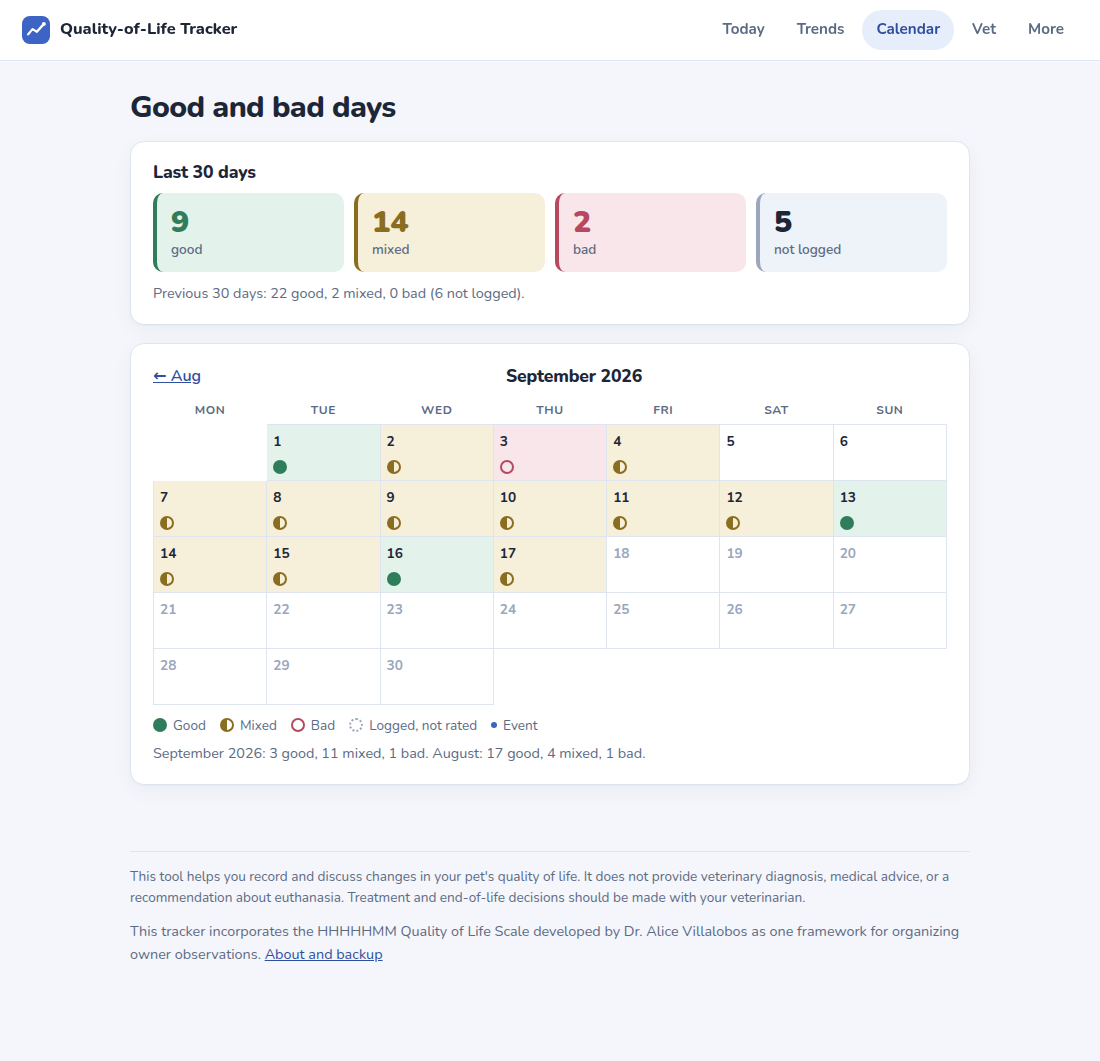
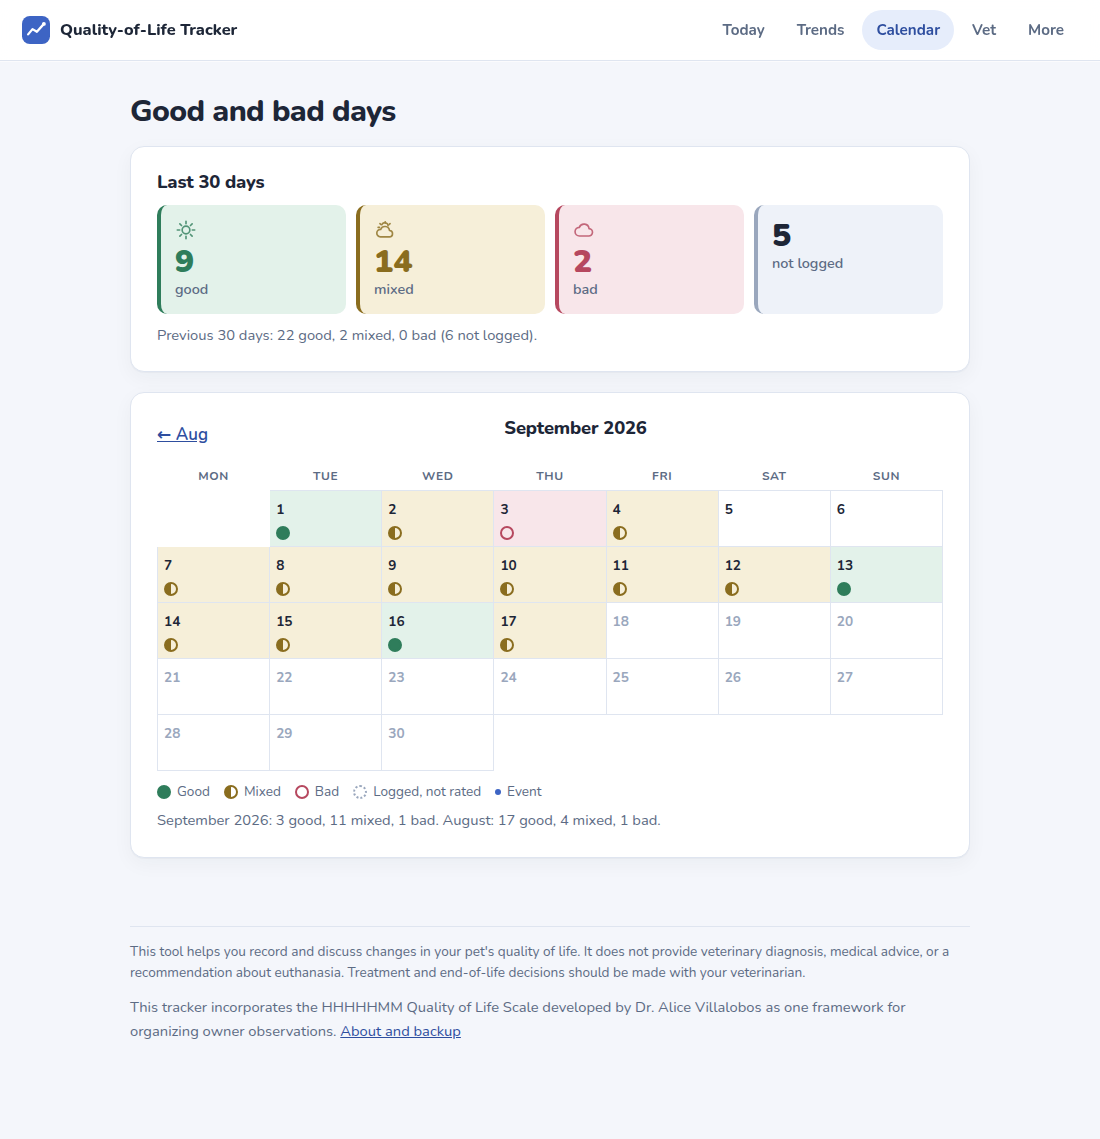
Readability pass and restrained graphics
- Inline SVG icon set (_icons.html): sun, cloud-and-sun, cloud for day
  types; dog and cat portraits for pets without a photo; step, menu,
  and completion marks; a soft chart illustration on the landing page
- Larger base type, more spacing inside cards, bigger day buttons
- Pet pages set the current pet from the URL so navigation always
  matches the page, even from a direct link

Claude-Session: https://claude.ai/code/session_01WD81nzJdcR2tiUwVwuFBaZ

diff --git a/app/templates/_icons.html b/app/templates/_icons.html
@@ -1,0 +1,38 @@
+{# Inline SVG icons: simple line drawings, 24x24, stroke-based so they take the text color. #}
+{% macro icon(name, cls='icon') -%}
+{%- if name == 'sun' -%}
+<svg class="{{ cls }}" viewBox="0 0 24 24" aria-hidden="true"><circle cx="12" cy="12" r="4.2"/><path d="M12 2.5v2.6M12 18.9v2.6M2.5 12h2.6M18.9 12h2.6M5.3 5.3l1.8 1.8M16.9 16.9l1.8 1.8M5.3 18.7l1.8-1.8M16.9 7.1l1.8-1.8"/></svg>
+{%- elif name == 'cloud-sun' -%}
+<svg class="{{ cls }}" viewBox="0 0 24 24" aria-hidden="true"><path d="M8.5 6.2a3.6 3.6 0 0 1 6.9 1.2"/><path d="M12.3 3v1.5M17.5 5l-1 1M6.5 5l1 1M4.5 9.2h1.5"/><path d="M7 19.5h9.5a3.5 3.5 0 0 0 .4-7 5 5 0 0 0-9.6-1.2A4.1 4.1 0 0 0 7 19.5z"/></svg>
+{%- elif name == 'cloud' -%}
+<svg class="{{ cls }}" viewBox="0 0 24 24" aria-hidden="true"><path d="M7 18.5h10a4 4 0 0 0 .5-8 5.5 5.5 0 0 0-10.6-1.4A4.7 4.7 0 0 0 7 18.5z"/></svg>
+{%- elif name == 'dog' -%}
+<svg class="{{ cls }}" viewBox="0 0 24 24" aria-hidden="true"><path d="M6.5 8.5 4 5.5c-.8-1 .1-2.3 1.3-2l3.4.9"/><path d="M17.5 8.5 20 5.5c.8-1-.1-2.3-1.3-2l-3.4.9"/><path d="M8.7 4.4C10.8 3.4 13.2 3.4 15.3 4.4"/><path d="M6.5 8.5c-1.3 3.2-.6 7.3 1.6 9.6a5.7 5.7 0 0 0 7.8 0c2.2-2.3 2.9-6.4 1.6-9.6"/><path d="M10 11.2h.01M14 11.2h.01"/><path d="M12 13.8c-.9 0-1.5.5-1.5 1 0 .8 1.5 1.7 1.5 1.7s1.5-.9 1.5-1.7c0-.5-.6-1-1.5-1z"/><path d="M12 16.5v2"/></svg>
+{%- elif name == 'cat' -%}
+<svg class="{{ cls }}" viewBox="0 0 24 24" aria-hidden="true"><path d="M5.5 10.5 4.8 4.2c-.1-.9.9-1.4 1.6-.9L10 6"/><path d="M18.5 10.5l.7-6.3c.1-.9-.9-1.4-1.6-.9L14 6"/><path d="M10 6c1.3-.4 2.7-.4 4 0"/><path d="M5.5 10.5c-.9 4.3 1.5 8.3 6.5 8.3s7.4-4 6.5-8.3"/><path d="M9.6 11.6h.01M14.4 11.6h.01"/><path d="M12 13.8l-1 .9 1 .7 1-.7-1-.9z"/><path d="M12 15.4v1.2M7.5 14.6l-3 .6M7.6 16.2l-2.8 1.2M16.5 14.6l3 .6M16.4 16.2l2.8 1.2"/></svg>
+{%- elif name == 'check-circle' -%}
+<svg class="{{ cls }}" viewBox="0 0 24 24" aria-hidden="true"><circle cx="12" cy="12" r="9"/><path d="M8.5 12.3l2.3 2.3 4.7-5"/></svg>
+{%- elif name == 'trend' -%}
+<svg class="{{ cls }}" viewBox="0 0 24 24" aria-hidden="true"><path d="M3.5 17.5l5-6 4 3 7.5-8"/><path d="M15.5 6.5H20v4.5"/></svg>
+{%- elif name == 'stethoscope' -%}
+<svg class="{{ cls }}" viewBox="0 0 24 24" aria-hidden="true"><path d="M6 3.5v6a4.5 4.5 0 0 0 9 0v-6"/><path d="M4.5 3.5H7.5M13.5 3.5h3"/><path d="M10.5 14v1.5a4.5 4.5 0 0 0 9 0V13"/><circle cx="19.5" cy="10.5" r="2.2"/></svg>
+{%- elif name == 'calendar' -%}
+<svg class="{{ cls }}" viewBox="0 0 24 24" aria-hidden="true"><rect x="3.5" y="5" width="17" height="15.5" rx="2.5"/><path d="M3.5 9.5h17M8 3v4M16 3v4"/><path d="M7.5 13h2M11 13h2M14.5 13h2M7.5 16.5h2M11 16.5h2"/></svg>
+{%- elif name == 'heart' -%}
+<svg class="{{ cls }}" viewBox="0 0 24 24" aria-hidden="true"><path d="M12 20s-7.5-4.6-7.5-10A4 4 0 0 1 12 7.6 4 4 0 0 1 19.5 10c0 5.4-7.5 10-7.5 10z"/></svg>
+{%- elif name == 'pill' -%}
+<svg class="{{ cls }}" viewBox="0 0 24 24" aria-hidden="true"><rect x="3" y="8.5" width="18" height="7" rx="3.5" transform="rotate(-35 12 12)"/><path d="M8.7 7.2l6.6 9.6"/></svg>
+{%- elif name == 'flag' -%}
+<svg class="{{ cls }}" viewBox="0 0 24 24" aria-hidden="true"><path d="M5.5 21V4"/><path d="M5.5 4.5c4-2 8 2 12 0v9c-4 2-8-2-12 0"/></svg>
+{%- elif name == 'person' -%}
+<svg class="{{ cls }}" viewBox="0 0 24 24" aria-hidden="true"><circle cx="12" cy="8" r="3.8"/><path d="M4.5 20.5c1-4.2 4-6 7.5-6s6.5 1.8 7.5 6"/></svg>
+{%- elif name == 'settings' -%}
+<svg class="{{ cls }}" viewBox="0 0 24 24" aria-hidden="true"><circle cx="12" cy="12" r="3"/><path d="M12 3.5v2M12 18.5v2M3.5 12h2M18.5 12h2M6 6l1.4 1.4M16.6 16.6 18 18M6 18l1.4-1.4M16.6 7.4 18 6"/></svg>
+{%- elif name == 'archive' -%}
+<svg class="{{ cls }}" viewBox="0 0 24 24" aria-hidden="true"><rect x="3.5" y="4.5" width="17" height="4.5" rx="1.2"/><path d="M5 9v9.5A1.5 1.5 0 0 0 6.5 20h11a1.5 1.5 0 0 0 1.5-1.5V9"/><path d="M10 13h4"/></svg>
+{%- elif name == 'leaf' -%}
+<svg class="{{ cls }}" viewBox="0 0 24 24" aria-hidden="true"><path d="M5 19c0-8 5-13 14-14-1 9-6 14-14 14z"/><path d="M5 19c3-4 6-7 10-10"/></svg>
+{%- elif name == 'baseline' -%}
+<svg class="{{ cls }}" viewBox="0 0 24 24" aria-hidden="true"><path d="M3.5 8.5h17" stroke-dasharray="3 2.5"/><path d="M3.5 17.5l4-3 3.5 2 4-4.5 5.5 3"/></svg>
+{%- endif -%}
+{%- endmacro %}

diff --git a/app/templates/landing.html b/app/templates/landing.html
@@ -1,25 +1,51 @@
 {% extends "base.html" %}
+{% from "_icons.html" import icon %}
 {% block title %}See the pattern, not just the day · Quality-of-Life Tracker{% endblock %}
 {% block content %}
 <section class="hero-landing">
-  <h1>See the pattern, not just the day.</h1>
-  <p class="lede">A gentle quality-of-life tracker for aging and seriously ill pets. Record daily observations in seconds, see changes over time, and bring clearer information to conversations with your veterinarian.</p>
-  <div class="actions">
-    <a class="button large" href="{{ url_for('animals.new_animal', onboarding=1) }}">Start tracking</a>
-    <a class="link" href="#how">See how it works</a>
+  <div class="hero-copy">
+    <h1>See the pattern, not just the day.</h1>
+    <p class="lede">A gentle quality-of-life tracker for aging and seriously ill pets. Record daily observations in seconds, see changes over time, and bring clearer information to conversations with your veterinarian.</p>
+    <div class="actions">
+      <a class="button large" href="{{ url_for('animals.new_animal', onboarding=1) }}">Start tracking</a>
+      <a class="link" href="#how">See how it works</a>
+    </div>
   </div>
+  <figure class="hero-art" aria-hidden="true">
+    <svg viewBox="0 0 320 240">
+      <defs>
+        <linearGradient id="sky" x1="0" y1="0" x2="0" y2="1"><stop offset="0" stop-color="#e6edfb"/><stop offset="1" stop-color="#ffffff"/></linearGradient>
+        <linearGradient id="fill" x1="0" y1="0" x2="0" y2="1"><stop offset="0" stop-color="#3d64c4" stop-opacity=".18"/><stop offset="1" stop-color="#3d64c4" stop-opacity="0"/></linearGradient>
+      </defs>
+      <rect x="8" y="8" width="304" height="224" rx="18" fill="url(#sky)" stroke="#dfe5f0"/>
+      <circle cx="262" cy="62" r="22" fill="#f6efd9" stroke="#e8d9a8"/>
+      <g stroke="#dfe5f0" stroke-width="1"><path d="M40 178h240M40 142h240M40 106h240M40 70h240"/></g>
+      <path d="M40 92 C70 84, 90 100, 118 96 S160 80, 184 104 S224 128, 248 136 S276 150, 280 156 L280 178 L40 178 Z" fill="url(#fill)"/>
+      <path d="M40 92 C70 84, 90 100, 118 96 S160 80, 184 104 S224 128, 248 136 S276 150, 280 156" fill="none" stroke="#3d64c4" stroke-width="3" stroke-linecap="round"/>
+      <g fill="#3d64c4" fill-opacity=".45"><circle cx="52" cy="98" r="3"/><circle cx="76" cy="86" r="3"/><circle cx="102" cy="102" r="3"/><circle cx="130" cy="90" r="3"/><circle cx="158" cy="94" r="3"/><circle cx="190" cy="110" r="3"/><circle cx="214" cy="120" r="3"/><circle cx="238" cy="138" r="3"/><circle cx="262" cy="146" r="3"/></g>
+      <path d="M40 80h240" stroke="#9aa7bd" stroke-width="1.5" stroke-dasharray="5 4"/>
+      <g transform="translate(200 160)" fill="none" stroke="#2e4e9f" stroke-width="2.4" stroke-linecap="round" stroke-linejoin="round">
+        <path d="M14 22 C0 14, 4 -2, 20 -2 S40 14, 26 22 Z"/>
+        <path d="M6 4 l-8 -14 c-1 -3 2 -5 5 -3 l10 4"/><path d="M34 4 l8 -14 c1 -3 -2 -5 -5 -3 l-10 4"/>
+        <path d="M17 12h.01M23 12h.01"/><path d="M20 16 c-2 0 -3 1 -3 2 0 2 3 3 3 3 s3 -1 3 -3 c0 -1 -1 -2 -3 -2z"/>
+      </g>
+    </svg>
+  </figure>
 </section>
 
 <section class="steps-landing" id="how" aria-label="How it works">
-  <div class="card block">
+  <div class="card block step-card">
+    {{ icon('check-circle', 'icon step-icon') }}
     <h2>Check in</h2>
     <p>Record a good or bad day, the behaviors that matter for your pet, and optional quality-of-life scores. Under thirty seconds.</p>
   </div>
-  <div class="card block">
+  <div class="card block step-card">
+    {{ icon('trend', 'icon step-icon') }}
     <h2>See the trend</h2>
     <p>Understand how comfort, mobility, appetite, happiness, and good days are changing over weeks, not just how today felt.</p>
   </div>
-  <div class="card block">
+  <div class="card block step-card">
+    {{ icon('stethoscope', 'icon step-icon') }}
     <h2>Talk with your vet</h2>
     <p>Create a simple one-page summary for veterinary appointments, with the charts and the changes worth discussing.</p>
   </div>

diff --git a/app/templates/dashboard.html b/app/templates/dashboard.html
@@ -1,4 +1,5 @@
 {% extends "base.html" %}
+{% from "_icons.html" import icon %}
 {% block title %}{{ animal.name }} · Today{% endblock %}
 {% block content %}
 <section class="hero">
@@ -6,7 +7,7 @@
     {% if animal.photo_path %}
       <img src="{{ url_for('animals.serve_photo', filename=animal.photo_path) }}" alt="">
     {% else %}
-      <span class="placeholder" aria-hidden="true">{{ animal.initials }}</span>
+      <span class="placeholder portrait" aria-hidden="true">{{ icon(animal.species, 'icon species') }}</span>
     {% endif %}
   </div>
   <div class="hero-body">
@@ -35,7 +36,7 @@
         <div>
           <p class="eyebrow">Today</p>
           <p class="today-status">
-            {% if today_entry.day_status %}<span class="day-pill {{ today_entry.day_status }}">{{ day_labels[today_entry.day_status] }}</span>{% else %}<span class="muted">Day not rated</span>{% endif %}
+            {% if today_entry.day_status %}<span class="day-pill {{ today_entry.day_status }}">{{ icon({"good": "sun", "mixed": "cloud-sun", "bad": "cloud"}[today_entry.day_status]) }}{{ day_labels[today_entry.day_status] }}</span>{% else %}<span class="muted">Day not rated</span>{% endif %}
             {% if total_markers %}<span class="muted">· {{ done_today }} of {{ total_markers }} good-day behaviors</span>{% endif %}
             {% if today_entry.mean is not none %}<span class="muted">· scores {{ '%.1f'|format(today_entry.mean) }} / 10</span>{% endif %}
           </p>
@@ -68,9 +69,9 @@
     <a class="link small" href="{{ url_for('trends.calendar', animal_id=animal.id) }}">Calendar</a>
   </div>
   <div class="day-counts">
-    <div class="count good"><span class="n">{{ month.good }}</span><span class="l">good {{ 'day' if month.good == 1 else 'days' }}</span></div>
-    <div class="count mixed"><span class="n">{{ month.mixed }}</span><span class="l">mixed</span></div>
-    <div class="count bad"><span class="n">{{ month.bad }}</span><span class="l">bad</span></div>
+    <div class="count good">{{ icon('sun') }}<span class="n">{{ month.good }}</span><span class="l">good {{ 'day' if month.good == 1 else 'days' }}</span></div>
+    <div class="count mixed">{{ icon('cloud-sun') }}<span class="n">{{ month.mixed }}</span><span class="l">mixed</span></div>
+    <div class="count bad">{{ icon('cloud') }}<span class="n">{{ month.bad }}</span><span class="l">bad</span></div>
     <div class="count none"><span class="n">{{ month.not_logged }}</span><span class="l">not logged</span></div>
   </div>
   {% if recent_mean is not none %}
@@ -148,7 +149,7 @@
       {% for e in recent_entries %}
         <li>
           <a href="{{ url_for('entries.checkin', animal_id=animal.id, date=e.entry_date.isoformat()) }}">{{ e.entry_date.strftime('%a, %b') }} {{ e.entry_date.day }}</a>
-          {% if e.day_status %}<span class="day-pill {{ e.day_status }}">{{ day_labels[e.day_status] }}</span>{% endif %}
+          {% if e.day_status %}<span class="day-pill {{ e.day_status }}">{{ icon({"good": "sun", "mixed": "cloud-sun", "bad": "cloud"}[e.day_status]) }}{{ day_labels[e.day_status] }}</span>{% endif %}
           {% if e.mean is not none %}<span class="muted small">{{ '%.1f'|format(e.mean) }} / 10</span>{% endif %}
           {% if e.notes %}<span class="muted small note">{{ e.notes|truncate(70) }}</span>{% endif %}
         </li>

diff --git a/app/static/style.css b/app/static/style.css
@@ -322,3 +322,48 @@ input[type="range"].unset + output { background: var(--surface-2); color: var(--
   .hero-landing h1 { font-size: 1.9rem; }
   .sticky-actions { bottom: 60px; }
 }
+
+/* ---- Icons and graphics ---- */
+.icon { width: 1.15em; height: 1.15em; fill: none; stroke: currentColor; stroke-width: 1.8; stroke-linecap: round; stroke-linejoin: round; vertical-align: -0.2em; flex: none; }
+.day-pill .icon { width: 1em; height: 1em; }
+.day-pill::before { display: none; }
+.day-icon { width: 30px; height: 30px; stroke-width: 1.6; margin-right: 10px; opacity: .85; }
+.day-option.mixed .day-icon { width: 24px; height: 24px; }
+.count .icon { width: 22px; height: 22px; margin-bottom: 4px; opacity: .8; }
+.count.good .icon { color: var(--good); } .count.mixed .icon { color: var(--mixed); } .count.bad .icon { color: var(--bad); }
+.placeholder.portrait { background: linear-gradient(160deg, #e6edfb, #f4f6fb); color: var(--accent-dark); }
+.portrait .species { width: 58%; height: 58%; stroke-width: 1.5; }
+.link-list .icon { color: var(--muted); margin-right: 4px; }
+.step-card { position: relative; padding-top: 22px; }
+.step-icon { width: 34px; height: 34px; color: var(--accent); stroke-width: 1.6; margin-bottom: 10px; display: block; }
+.mark { width: 44px; height: 44px; color: var(--accent); stroke-width: 1.5; display: block; margin-bottom: 8px; }
+.hero-landing { display: grid; grid-template-columns: minmax(0, 1.2fr) minmax(260px, .8fr); gap: 32px; align-items: center; max-width: none; }
+.hero-art { margin: 0; }
+.hero-art svg { width: 100%; height: auto; display: block; filter: drop-shadow(0 12px 28px rgba(46, 78, 159, .12)); }
+
+/* ---- Readability pass ---- */
+body { font-size: 17px; line-height: 1.6; }
+.content { padding-top: 32px; }
+.card.block { padding: 24px 26px; margin-bottom: 20px; }
+.card.block h2 { font-size: 1.15rem; margin-bottom: 12px; }
+.section-head.tight { margin-bottom: 12px; }
+.chart-summary { font-size: 1rem; }
+.insight { padding: 12px 16px; line-height: 1.5; }
+.insight-list { gap: 10px; }
+.marker-list { gap: 14px; }
+.entry-list li, .event-list li { padding: 10px 0; }
+.today-status { font-size: 1.12rem; }
+.count .n { font-size: 2rem; }
+.count .l { font-size: 0.9rem; }
+.lede { font-size: 1.1rem; }
+.hint { font-size: 0.95rem; }
+.small { font-size: 0.92rem; }
+.table th { font-size: 0.8rem; }
+.day-option { min-height: 84px; font-size: 1.2rem; }
+.form label.day-option.mixed, .day-option.mixed { min-height: 60px; font-size: 1.05rem; }
+@media (max-width: 700px) {
+  body { font-size: 16px; }
+  .hero-landing { grid-template-columns: 1fr; gap: 20px; }
+  .hero-art { order: -1; max-width: 300px; margin: 0 auto; }
+  .card.block { padding: 18px; }
+}

diff --git a/app/templates/more.html b/app/templates/more.html
@@ -1,4 +1,5 @@
 {% extends "base.html" %}
+{% from "_icons.html" import icon %}
 {% block title %}More{% endblock %}
 {% block content %}
 <h1>More</h1>
@@ -6,12 +7,12 @@
 <section class="card block">
   <h2>{{ animal.name }}</h2>
   <ul class="link-list">
-    <li><a href="{{ url_for('animals.settings', animal_id=animal.id) }}">Profile and settings</a></li>
-    <li><a href="{{ url_for('markers.behaviors', animal_id=animal.id) }}">Good-day behaviors</a></li>
-    <li><a href="{{ url_for('events.timeline', animal_id=animal.id) }}">Events timeline</a></li>
-    <li><a href="{{ url_for('entries.medications', animal_id=animal.id) }}">Medications</a></li>
-    <li><a href="{{ url_for('baseline.edit', animal_id=animal.id) }}">Baseline from before</a></li>
-    <li><a href="{{ url_for('caregiver.checkin', animal_id=animal.id) }}">How are you doing?</a> <span class="muted small">caregiver check-in</span></li>
+    <li>{{ icon('settings') }}<a href="{{ url_for('animals.settings', animal_id=animal.id) }}">Profile and settings</a></li>
+    <li>{{ icon('check-circle') }}<a href="{{ url_for('markers.behaviors', animal_id=animal.id) }}">Good-day behaviors</a></li>
+    <li>{{ icon('flag') }}<a href="{{ url_for('events.timeline', animal_id=animal.id) }}">Events timeline</a></li>
+    <li>{{ icon('pill') }}<a href="{{ url_for('entries.medications', animal_id=animal.id) }}">Medications</a></li>
+    <li>{{ icon('baseline') }}<a href="{{ url_for('baseline.edit', animal_id=animal.id) }}">Baseline from before</a></li>
+    <li>{{ icon('person') }}<a href="{{ url_for('caregiver.checkin', animal_id=animal.id) }}">How are you doing?</a> <span class="muted small">caregiver check-in</span></li>
   </ul>
 </section>
 {% endif %}
@@ -28,8 +29,8 @@
 <section class="card block">
   <h2>App</h2>
   <ul class="link-list">
-    <li><a href="{{ url_for('settings.settings') }}">Backup, restore, and about</a></li>
-    <li><a href="{{ url_for('dashboard.landing') }}">How it works</a></li>
+    <li>{{ icon('archive') }}<a href="{{ url_for('settings.settings') }}">Backup, restore, and about</a></li>
+    <li>{{ icon('trend') }}<a href="{{ url_for('dashboard.landing') }}">How it works</a></li>
   </ul>
 </section>
 {% endblock %}

diff --git a/app/templates/trends.html b/app/templates/trends.html
@@ -1,4 +1,5 @@
 {% extends "base.html" %}
+{% from "_icons.html" import icon %}
 {% block title %}{{ animal.name }} · Trends{% endblock %}
 {% block content_class %}wide{% endblock %}
 {% block content %}
@@ -105,7 +106,7 @@
       {% for e in rows %}
         <tr>
           <td class="nowrap"><a href="{{ url_for('entries.checkin', animal_id=animal.id, date=e.entry_date.isoformat()) }}">{{ e.entry_date.strftime('%b') }} {{ e.entry_date.day }}, {{ e.entry_date.year }}</a></td>
-          <td>{% if e.day_status %}<span class="day-pill {{ e.day_status }}">{{ day_labels[e.day_status] }}</span>{% endif %}</td>
+          <td>{% if e.day_status %}<span class="day-pill {{ e.day_status }}">{{ icon({"good": "sun", "mixed": "cloud-sun", "bad": "cloud"}[e.day_status]) }}{{ day_labels[e.day_status] }}</span>{% endif %}</td>
           <td>{% if e.mean is not none %}{{ '%.1f'|format(e.mean) }}{% endif %}</td>
           {% for c in categories %}<td>{{ e.scores[c.key] if e.scores[c.key] is not none else '' }}</td>{% endfor %}
           <td class="nowrap">{% if e.weight is not none %}{{ '%g'|format(e.weight) }} {{ e.weight_unit }}{% endif %}</td>

diff --git a/app/templates/calendar.html b/app/templates/calendar.html
@@ -1,4 +1,5 @@
 {% extends "base.html" %}
+{% from "_icons.html" import icon %}
 {% block title %}{{ animal.name }} · Calendar{% endblock %}
 {% block content %}
 <h1>Good and bad days</h1>
@@ -6,9 +7,9 @@
 <section class="card block">
   <h2>Last 30 days</h2>
   <div class="day-counts">
-    <div class="count good"><span class="n">{{ last30.good }}</span><span class="l">good</span></div>
-    <div class="count mixed"><span class="n">{{ last30.mixed }}</span><span class="l">mixed</span></div>
-    <div class="count bad"><span class="n">{{ last30.bad }}</span><span class="l">bad</span></div>
+    <div class="count good">{{ icon('sun') }}<span class="n">{{ last30.good }}</span><span class="l">good</span></div>
+    <div class="count mixed">{{ icon('cloud-sun') }}<span class="n">{{ last30.mixed }}</span><span class="l">mixed</span></div>
+    <div class="count bad">{{ icon('cloud') }}<span class="n">{{ last30.bad }}</span><span class="l">bad</span></div>
     <div class="count none"><span class="n">{{ last30.not_logged }}</span><span class="l">not logged</span></div>
   </div>
   {% if prev30.logged %}

diff --git a/app/templates/animal_settings.html b/app/templates/animal_settings.html
@@ -1,4 +1,5 @@
 {% extends "base.html" %}
+{% from "_icons.html" import icon %}
 {% block title %}{{ animal.name }} · Settings{% endblock %}
 {% block content %}
 <h1>{{ animal.name }}</h1>
@@ -7,7 +8,7 @@
   <h2>Profile</h2>
   <div class="hero compact">
     <div class="hero-photo small">
-      {% if animal.photo_path %}<img src="{{ url_for('animals.serve_photo', filename=animal.photo_path) }}" alt="">{% else %}<span class="placeholder" aria-hidden="true">{{ animal.initials }}</span>{% endif %}
+      {% if animal.photo_path %}<img src="{{ url_for('animals.serve_photo', filename=animal.photo_path) }}" alt="">{% else %}<span class="placeholder portrait" aria-hidden="true">{{ icon(animal.species, 'icon species') }}</span>{% endif %}
     </div>
     <div>
       <p>{{ animal.species|capitalize }}{% if animal.breed %} · {{ animal.breed }}{% endif %}{% if animal.age_text %} · {{ animal.age_text }}{% endif %}{% if animal.sex and animal.sex != 'unknown' %} · {{ animal.sex }}{% endif %}</p>

diff --git a/app/templates/_animal_card.html b/app/templates/_animal_card.html
@@ -1,10 +1,11 @@
+{% from "_icons.html" import icon %}
 <article class="card animal-card{% if animal.archived %} archived{% endif %}">
   <div class="top">
     <a class="thumb" href="{{ url_for('animals.show_animal', animal_id=animal.id) }}" aria-label="Open {{ animal.name }}">
       {% if animal.photo_path %}
         <img src="{{ url_for('animals.serve_photo', filename=animal.photo_path) }}" alt="">
       {% else %}
-        <span class="placeholder" aria-hidden="true">{{ animal.initials }}</span>
+        <span class="placeholder portrait" aria-hidden="true">{{ icon(animal.species, 'icon species') }}</span>
       {% endif %}
     </a>
     <div>

diff --git a/app/templates/checkin_quick.html b/app/templates/checkin_quick.html
@@ -1,4 +1,5 @@
 {% extends "base.html" %}
+{% from "_icons.html" import icon %}
 {% block title %}Quick check-in · {{ animal.name }}{% endblock %}
 {% block content %}
 <h1>Quick check-in</h1>
@@ -13,6 +14,7 @@
         {% for value, label in day_statuses %}
           <label class="day-option {{ value }}">
             <input type="radio" name="day_status" value="{{ value }}" {% if values.get('day_status') == value %}checked{% endif %} required>
+            {{ icon({'good': 'sun', 'mixed': 'cloud-sun', 'bad': 'cloud'}[value], 'icon day-icon') }}
             <span>{{ label }}</span>
           </label>
         {% endfor %}

diff --git a/app/templates/checkin.html b/app/templates/checkin.html
@@ -1,4 +1,5 @@
 {% extends "base.html" %}
+{% from "_icons.html" import icon %}
 {% block title %}Check in · {{ animal.name }}{% endblock %}
 {% block content %}
 <div class="section-head">
@@ -27,6 +28,7 @@
         {% for value, label in day_statuses %}
           <label class="day-option {{ value }}">
             <input type="radio" name="day_status" value="{{ value }}" {% if values.get('day_status') == value %}checked{% endif %}>
+            {{ icon({'good': 'sun', 'mixed': 'cloud-sun', 'bad': 'cloud'}[value], 'icon day-icon') }}
             <span>{{ label }}</span>
           </label>
         {% endfor %}

diff --git a/app/templates/ready.html b/app/templates/ready.html
@@ -1,7 +1,9 @@
 {% extends "base.html" %}
+{% from "_icons.html" import icon %}
 {% block title %}You're ready · {{ animal.name }}{% endblock %}
 {% block content %}
 <section class="done">
+  {{ icon('leaf', 'icon mark') }}
   <h1>You're ready.</h1>
   <p class="lede">Daily check-ins can take less than 30 seconds. After a week or two, the trend starts to show. {% if not has_baseline %}You can add a baseline from before any time in settings.{% endif %}</p>
   <div class="actions">
